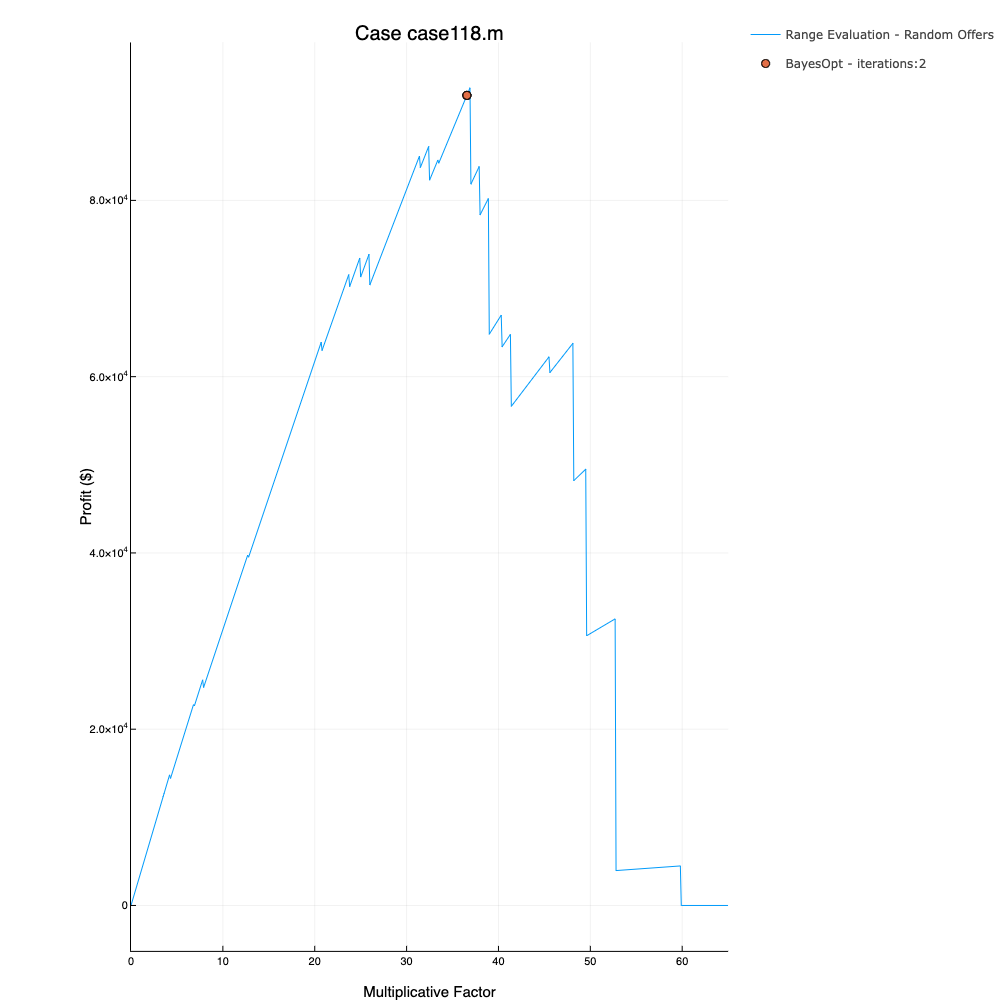
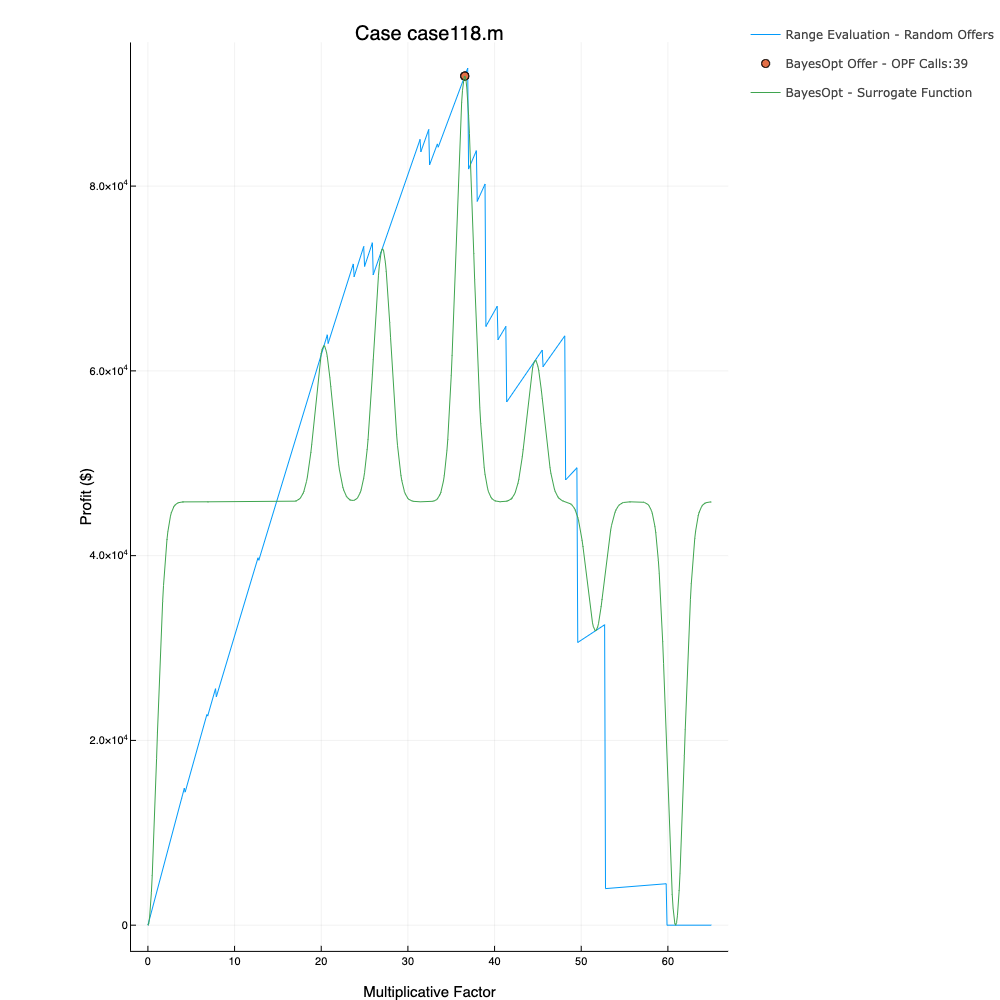
update example plot

diff --git a/docs/src/examples/Nonconvex.md b/docs/src/examples/Nonconvex.md
@@ -103,7 +103,7 @@ add_ineq_constraint!(model, x -> -1) # errors when no inequality is added!
 # Solution Method: Bayesian Optimization
 alg = BayesOptAlg(IpoptAlg())
 options = BayesOptOptions(
-    sub_options = IpoptOptions(),
+    sub_options = IpoptOptions(max_iter = maxiter),
     maxiter = maxiter, ftol = 1e-4, ctol = 1e-5,
 )
 
@@ -112,11 +112,15 @@ r = optimize(model, alg, [min_total_volume], options = options)
 
 best_solution = r.minimizer
 best_profit = -r.minimum
-r.niters # number of iterations
+r.niters # number of iterations of the 
 
 scatter!(plt_range, [best_solution; r.sub_result.minimizer], [best_profit; -r.sub_result.minimum],
-    label="BayesOpt - iterations:$(r.niters)",
+    label="BayesOpt Offer - OPF Calls:$(r.sub_result.fcalls)",
     size=(1000, 1000)
+)
+
+plot!(range_mul_factor, -getproperty.(r.surrogates[1].(range_mul_factor), :lo),
+    label="BayesOpt - Surrogate Function",
 )
 ```
 ![](https://github.com/andrewrosemberg/PortfolioOpt/blob/master/docs/src/assets/bayesopt_profit.png?raw=true)
